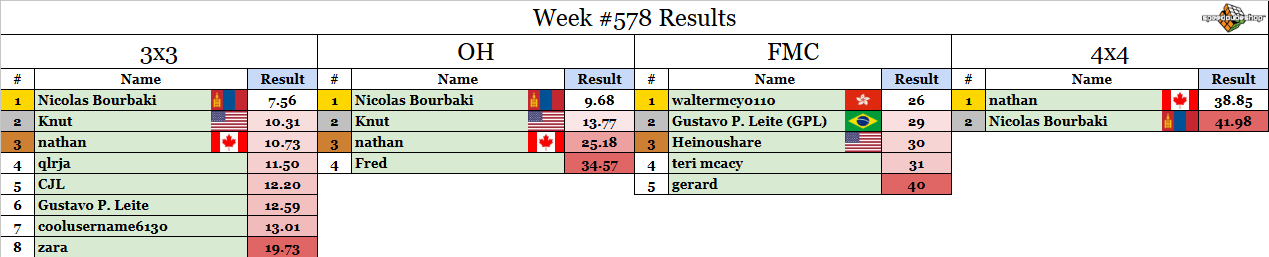
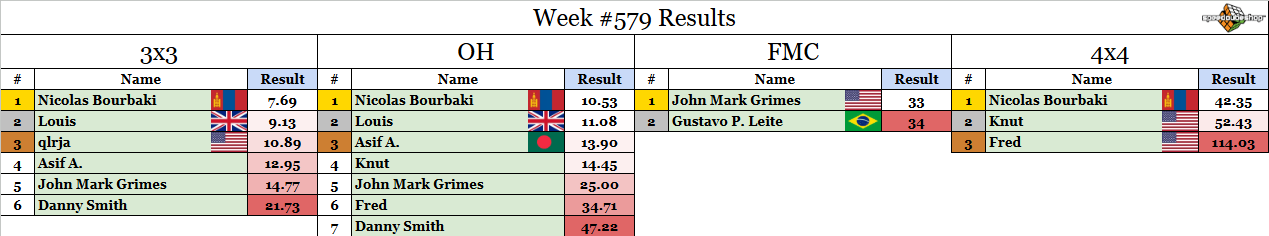
weekly comp update

diff --git a/src/pages/Rouxdmap.tsx b/src/pages/Rouxdmap.tsx
@@ -183,7 +183,7 @@ export default function Roadmap() {
                         </ListItemButton>
                         <Divider variant="middle" component="li" />
                         <ListItemButton onClick={() => window.open('https://rouxcubing.com/#/rouxsources?mainTab=2&subTab=2')}>
-                          <ListItemText primary="Dots skipping/UFUB" />
+                          <ListItemText primary="Dots skipping" />
                         </ListItemButton>
                       </List>
                     </TableCell>
@@ -276,7 +276,7 @@ export default function Roadmap() {
                         </ListItemButton>
                         <Divider variant="middle" component="li" />
                         <ListItemButton dense onClick={() => window.open('https://rouxcubing.com/#/rouxsources?mainTab=1&subTab=5')}>
-                          <ListItemText primary="ACMLL/TCMLL/SCOR/SBC" />
+                          <ListItemText primary="ACMLL/TCMLL" />
                         </ListItemButton>
                       </List>
                     </TableCell>

diff --git a/src/weeklycomp/post.md b/src/weeklycomp/post.md
@@ -1,10 +1,10 @@
-## Weekly Competition #579 
+## Weekly Competition #580 
  
 Sponsored by SpeedCubeShop
 Shop here: [speedcubeshop.com/rouxcomp](https://speedcubeshop.com/rouxcomp)
 Use code ROUX for 5% off
 
-One competitor will be selected at random to receive a $5 SCS gift card! Congrats to last week's winner by a random draw: **waltermcy0110**. DM me for the prize. 
+One competitor will be selected at random to receive a $5 SCS gift card! Congrats to last week's winner by a random draw: **qlrja**. DM me for the prize. 
  
 Check whether or not you participated this week yet at [https://bit.ly/RMSWeeklyCompSummary](https://bit.ly/RMSWeeklyCompSummary)  
  
@@ -18,31 +18,30 @@ Check whether or not you participated this week yet at [https://bit.ly/RMSWeekly
  7. The comp runs until Sunday 5pm Eastern time (more or less). Enter your times using the forms links below. 
  
 ### 3x3: [Submission Form](https://forms.gle/H5xoCWvGKnZ92fQt8) 
- 1. D L' D2 F' U2 F R2 U2 B L2 B' D2 U2 L2 R U B2 R B2 L R2 
- 2. R U2 L D2 R2 B2 F2 D2 R' D2 R2 B D' R' B2 D F L R2 F' D 
- 3. D' F' U2 L2 D2 U2 B' R2 B' D2 F' U2 R F D R2 D B 
- 4. F2 B' U D R U D2 L' B' L F2 L' B2 R' D2 L U2 B2 D2 L D2 
- 5. D2 R' U2 R2 F2 U2 R B2 U2 R B2 L B R U' B' R U F L D2 
+ 1. B2 L2 B2 R2 U2 L2 D' U2 B2 F2 R2 F U F2 U F R' D L B2 F 
+ 2. B U F2 U2 B L2 U2 B' R2 U2 F2 R2 B R D2 F D L F U R 
+ 3. U' R2 U2 B L2 U2 B D2 F' D2 F' U' L' B R D2 F2 D F' D2 
+ 4. U' F2 U' R2 B2 U' B2 D' B2 R2 F' R F2 U R B' D' L R2 F 
+ 5. L F2 L F2 D2 R2 D2 F2 R' B2 L R' B' D' R B2 D2 R' F U R2 
  
 ### OH: [Submission Form](https://forms.gle/UgRLW3K1d5KkMGfM9) 
- 1. R' B2 U2 R' B2 R D2 R U2 R2 D2 R2 B' D F R U F2 D U R' 
- 2. R2 B' D2 B2 D2 L2 B2 U2 L F2 R' B2 L U B' U' L' D R2 U2 
- 3. L B2 L' D2 F2 R' D2 F2 U2 B2 L2 F2 U' R' D2 R D F U2 R F 
- 4. U L' R2 D2 R2 U2 R' B2 L' U2 R' F2 D2 U' B' R D R2 F2 R2 
- 5. R L B' L' D B D2 F' R U2 D2 R F2 B2 U2 B2 R' B2 L U 
+ 1. F2 L2 R2 B D2 R2 F' R2 F R2 D2 F D F2 R D' L2 D' R F L 
+ 2. L' F R2 F2 L2 B2 D2 L' B2 L' D2 L F2 D L F2 L2 U2 R2 F2 
+ 3. U2 L2 D' F2 L2 R2 U' F2 L2 B2 L F' L2 D L' B2 D' R2 F2 
+ 4. B' D F2 U L2 U' B2 L2 B2 U F2 L2 R D' U2 R2 B' U F' D' 
+ 5. U B U' R2 D F2 L2 R2 U R2 U2 L2 U L2 F R' B2 L D R' D 
  
 ### FMC: [Submission Form](https://forms.gle/1P9VUgZmA1pibwvL9) 
- 1. R' U' F U' D R2 B2 R D F D' B' L' U2 R' B2 U2 B2 L D2 L U2 R2 D2 R' U' F 
+ 1. R' U' F D' F2 U B2 D L2 F2 R2 F2 D R2 U2 B R' F2 U B2 R U L2 D' R' U' F 
  
 ### 4x4: [Submission Form](https://forms.gle/bHNjncvEcPvFWBP2A) 
- 1. D2 L2 B' U2 B' U2 R2 L2 F2 B' D2 B2 D' R2 U' F2 R L' B L2 B2 Fw2 U B D Fw2 D Uw2 B2 Rw2 D R' L2 Rw' Fw2 D' Rw D' B' Uw' L' F Uw2 B' Rw' 
- 2. L' U2 R2 D2 F B2 D2 B2 R2 B L2 B R2 U2 D' F' R' L U2 R2 U Fw2 R' Rw2 U2 F' L Rw2 Uw2 F' R' F U2 Fw2 U Rw2 Uw' F L2 Rw' U' Fw L Rw2 D2 Rw 
- 3. U2 B2 R2 L' D2 F2 L F2 L' F2 B2 L' B D2 B' U B U F' R' D Fw2 U Fw2 R F2 L' Fw2 L2 Fw2 L D' R2 Fw' R Fw2 U' L' D' F2 Rw D2 Uw' R Rw U 
- 4. U F' L F2 L2 D2 B2 U2 R F2 U2 D2 R' U' R' L D R U F' B Rw2 B' R2 Uw2 F' Fw2 Uw2 F' R' B L U F2 B D Uw R' L Rw' F' B' Fw' Uw F2 Rw2 
- 5. D L2 D2 L2 D' B2 D' B2 D R2 D2 F2 L' U F' D B D2 R' B' Fw2 D' Uw2 L' U D2 Fw2 D' L2 D' R F2 L Fw R2 Fw2 Rw2 U R Rw D' Uw' L Fw2 Rw U2 
+ 1. B L' U' D' R2 F2 R2 L2 D L' B' U' B D B2 R F' Uw2 Rw2 B2 R' U R Fw2 L2 U R2 L' D2 Fw' U F' R' B Uw' Fw' L' D2 Rw' Fw2 L' Uw 
+ 2. U L D2 F2 L2 B U F' R' D2 F' D2 B U2 B' D2 F2 D2 L2 F L2 Uw2 R' F2 Uw2 Rw2 D2 Fw2 D' R2 D' L2 D' Fw' D2 B2 U' Uw F2 L' Uw' Rw' F U L' 
+ 3. D' R F R2 D2 F L2 U2 F' B2 L2 D2 F2 B' D F' R' F2 D B2 L' Fw2 R' U2 R Uw2 F L2 Rw2 B Fw2 U2 D2 Uw' F2 D2 R F' L Rw2 Fw' L Rw' B' Uw' R' 
+ 4. D2 B U D2 F2 R D B' R D2 B2 U2 F2 R2 B2 R F2 R' U2 R Uw2 Rw2 Fw2 U2 F' Fw2 L Uw2 F' B' L F' U D2 Uw' Rw2 D F2 L' Fw' L2 Uw Rw Uw' Rw' B2 
+ 5. L' F B D' L' F' U' B' U D R2 U2 D B2 D R2 B2 L2 U2 Uw2 Fw2 D' R2 Uw2 L' F2 Rw2 D Fw2 U' Fw' R' B2 R' B2 Fw2 L Rw Fw Uw' Fw' U2 Rw2 D2 
  
 ### Winning FMC solutions from last week: 
- 1. waltermcy0110, 26 moves: [SOLUTION](https://bit.ly/4tIkVsv) 
- 2. Gustavo P. Leite (GPL), 29 moves: [SOLUTION](https://bit.ly/4efQohg) 
- 3. Heinoushare, 30 moves: [SOLUTION](https://bit.ly/3PWgYCh) 
+ 1. John Mark Grimes, 33 moves: [SOLUTION](https://bit.ly/48ZQWV5) 
+ 2. Gustavo P. Leite, 34 moves: [SOLUTION](https://bit.ly/4sUbKEU)
  
